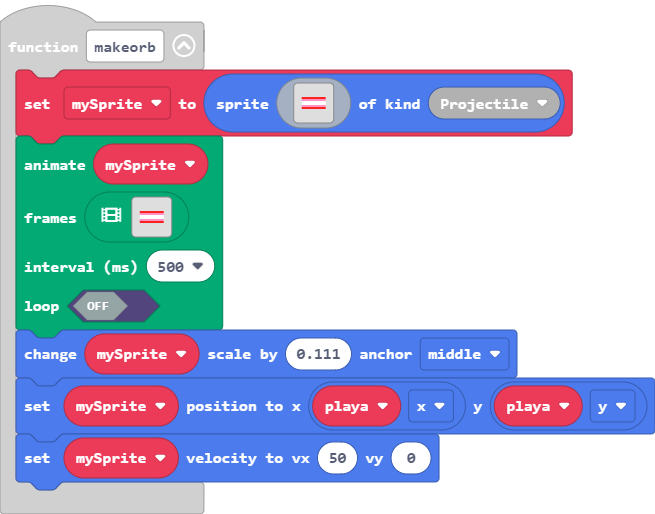
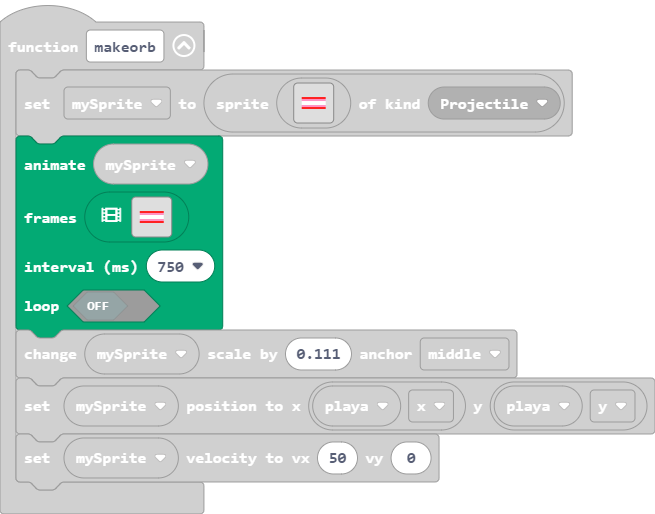
Update main.blocks, main.ts

diff --git a/main.ts b/main.ts
@@ -87,8 +87,25 @@ function makeorb () {
         . . . . 3 3 . . . . 3 3 . . . . 
         . . . . . . . . . 3 3 . . . . . 
         . . . . . . . . . . . . . . . . 
+        `,img`
+        . . . . . . . . . . . . . . . . 
+        . . . . . . . . . . . . . . . . 
+        . . . . . . . . . . . . . . . . 
+        . . . . . . . . . . . . . . . . 
+        . . . . . . . . . . . . . . . . 
+        . . . . . . . . . . . . . . . . 
+        . . . . . . . . . . . . . . . . 
+        . . . . . . . . . . . . . . . . 
+        . . . . . . . . . . . . . . . . 
+        . . . . . . . . . . . . . . . . 
+        . . . . . . . . . . . . . . . . 
+        . . . . . . . . . . . . . . . . 
+        . . . . . . . . . . . . . . . . 
+        . . . . . . . . . . . . . . . . 
+        . . . . . . . . . . . . . . . . 
+        . . . . . . . . . . . . . . . . 
         `],
-    500,
+    750,
     false
     )
     mySprite.changeScale(0.111, ScaleAnchor.Middle)
